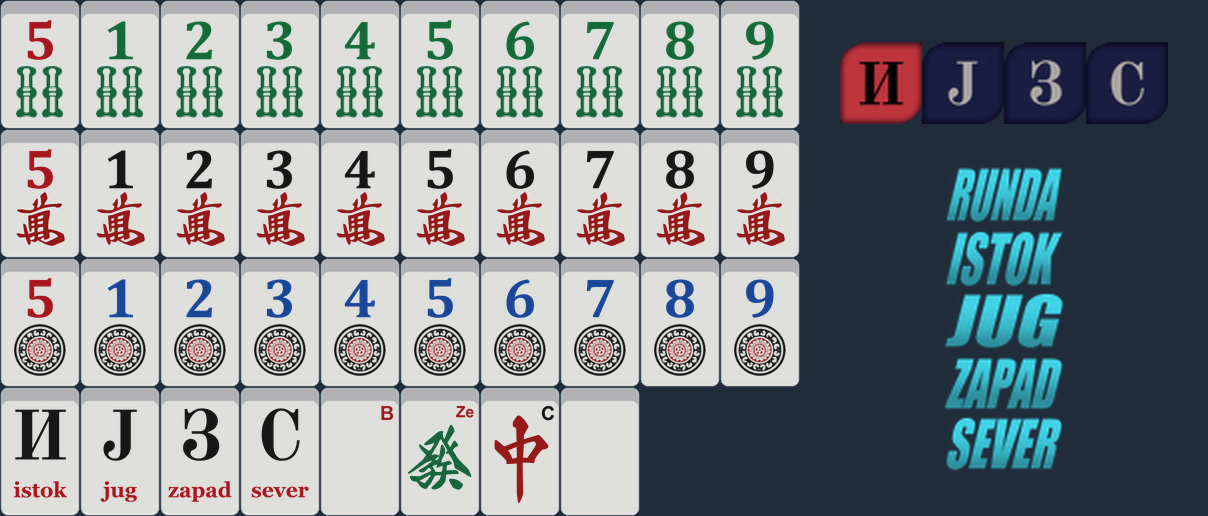
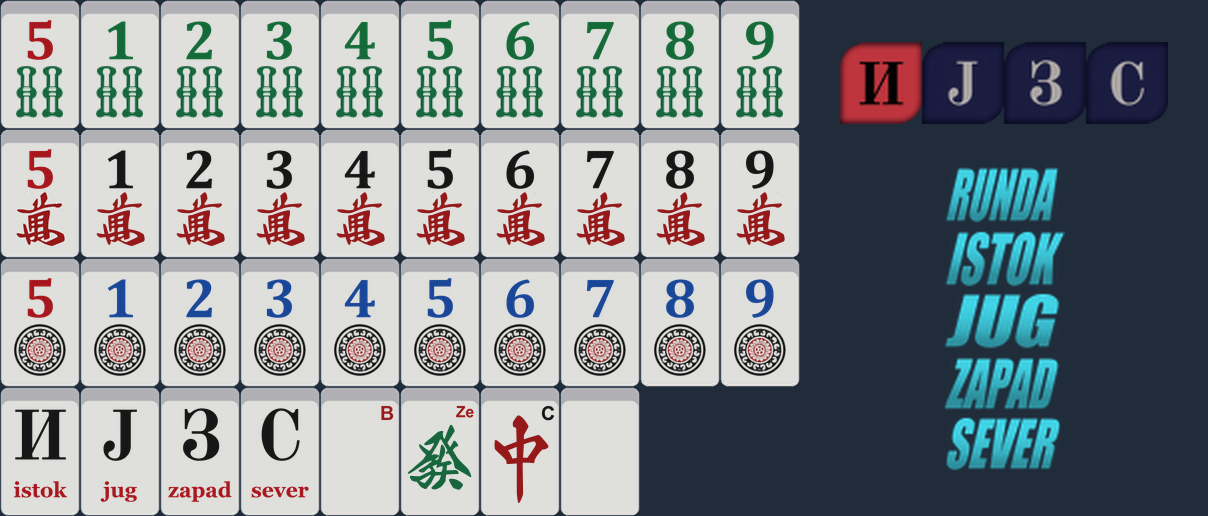
Serbian edition: same gap between round word and number; in-game table centre preview

Changed region(s): [[0.7964, 0.3101, 0.8882, 0.8992]]

diff --git a/README.md b/README.md
@@ -56,4 +56,8 @@ the same way, and you can switch between the two versions freely.
 
 ![Serbian edition](preview-serbian.png)
 
+Table centre in a match (mockup on a real screenshot), one per round wind:
+
+![Serbian table centre in game](preview-serbian-ingame.png)
+
 </details>
